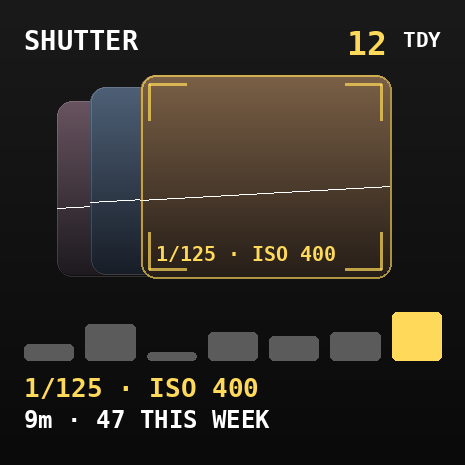
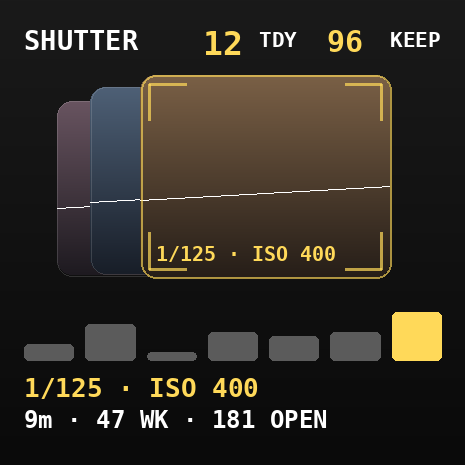
Build 107: disable system widget margins for edge-tight faces
.contentMarginsDisabled() on Home Launch/Looks so our 8pt pad is the
real inset — Apple's default margins were stacking on top and reading huge.

diff --git a/ShutterWidgets/ShutterWidgetsBundle.swift b/ShutterWidgets/ShutterWidgetsBundle.swift
@@ -560,6 +560,8 @@ struct ShutterLaunchWidget: Widget {
         .configurationDisplayName("Shutter Cam")
         .description("Contact sheet, week of frames, and tap to shoot.")
         .supportedFamilies([.systemSmall, .systemMedium, .systemLarge])
+        // Own the edge inset — system margins stacked on contentPad made sides huge (Build 107).
+        .contentMarginsDisabled()
     }
 }
 
@@ -965,6 +967,7 @@ struct ShutterLooksWidget: Widget {
         .configurationDisplayName("Shutter Looks")
         .description("One-tap film + FX looks, armed look, and recent frames.")
         .supportedFamilies([.systemMedium, .systemLarge])
+        .contentMarginsDisabled()
     }
 }
 

diff --git a/scripts/widget_layout_preview.py b/scripts/widget_layout_preview.py
@@ -270,8 +270,10 @@ def launch_small(g) -> Image.Image:
     p, gap = g["small_pad"], g["small_gap"]
     x, y, w = p, p, SMALL[0] - p * 2
     f.text(x, y, "SHUTTER", pt=9, alpha=235)
-    f.text(x + w, y + 1, "TDY", pt=7, alpha=90, anchor="ra")
-    f.text(x + w - 18, y, f"{STATS['today']}", pt=11, fill=ACCENT, anchor="ra")
+    f.text(x + w, y + 1, "KEEP", pt=7, alpha=90, anchor="ra")
+    f.text(x + w - 26, y, f"{STATS['keepers']}", pt=10, fill=ACCENT, anchor="ra")
+    f.text(x + w - 48, y + 1, "TDY", pt=7, alpha=90, anchor="ra")
+    f.text(x + w - 66, y, f"{STATS['today']}", pt=11, fill=ACCENT, anchor="ra")
     y += 11 + gap
 
     # Fan of recent stills + viewfinder gate (matches WidgetRecentStack).
@@ -305,7 +307,7 @@ def launch_small(g) -> Image.Image:
     y += g["small_bars"] + gap
     f.text(x, y, EXPOSURE.replace(" · ƒ1.8", ""), pt=8.5, fill=ACCENT)
     y += 11
-    f.text(x, y, f"9m · {STATS['week_total']} THIS WEEK", pt=8, alpha=120)
+    f.text(x, y, f"9m · {STATS['week_total']} WK · {STATS['unculled']} OPEN", pt=8, alpha=120)
     return f.save("launch-small.png")
 
 

diff --git a/scripts/stress_test_shutter.py b/scripts/stress_test_shutter.py
@@ -830,6 +830,7 @@ def test_source_guards() -> None:
     check("widget tight contentPad 8", "Tight outer pad" in widgets)
     check("widget medium bigger sheet", ".frame(width: 136, height: 108)" in widgets)
     check("widget small keep count", "KEEP" in widgets and "stats.keepers" in widgets)
+    check("widget contentMarginsDisabled", "contentMarginsDisabled()" in widgets)
 
     # Build 71 — fun scrubbers + fullscreen arch vibe
     aids = (ROOT / "ViewfinderAids.swift").read_text()
